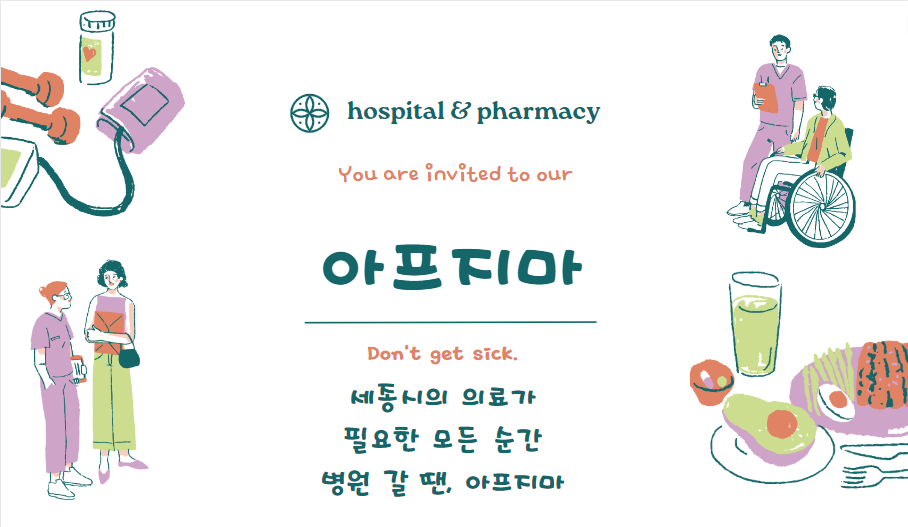
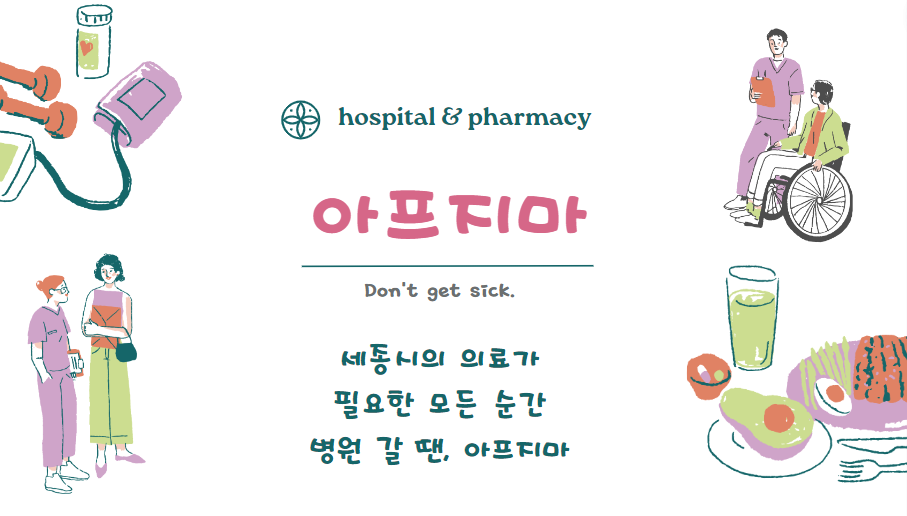
메인 사이드 바에 로고로 바꿈

diff --git a/src/WelcomePage.js b/src/WelcomePage.js
@@ -13,6 +13,8 @@ import {
   faHospital,
   faUser,
 } from "@fortawesome/free-regular-svg-icons";
+import logo from "./assets/images/로고1.png";
+import Snowfall from "react-snowfall";
 
 const images = [
   {
@@ -64,9 +66,19 @@ export function WelcomePage() {
   }
 
   return (
-    <div className="bg-blue-100 bg-opacity-40">
-      <Box className="max-w-screen-xl mx-auto ">
-        <AspectRatio ratio={20 / 6} position="relative">
+    <div className="bg-indigo-950">
+      <Snowfall
+        style={{
+          position: "fixed",
+          width: "100vw",
+          height: "100vh",
+          zIndex: 10,
+          color: "red",
+        }}
+      />
+
+      <Box className="mx-auto ">
+        <AspectRatio ratio={20 / 4} position="relative">
           <Box>
             {imageList.map((image) => (
               <Image
@@ -84,30 +96,39 @@ export function WelcomePage() {
       </Box>
 
       <body>
-        <div className="flex bg-blue-100 bg-opacity-20 justify-center relative">
+        <div className="flex bg-indigo-950  justify-center relative">
           <div
             className="sticky z-99 flex flex-col justify-center"
             style={{
               marginRight: "100px",
-              marginTop: "100px",
-              color: "#4C87B9",
+              marginTop: "50px",
+              color: "white",
               cursor: "pointer",
             }}
             onClick={() => navigate("/home")}
           >
-            <p>여기 로고 들어갈 수 있나?</p>
             <br />
-            <p className="text-4xl" style={{ marginBottom: "40px" }}>
+            <p
+              className="text-6xl font-dongle font-semibold text-center"
+              style={{ marginBottom: "40px" }}
+            >
               <strong>세종시의</strong> 의료가
             </p>
-            <p className="text-4xl" style={{ marginBottom: "40px" }}>
+            <p
+              className="text-6xl font-dongle font-semibold text-center"
+              style={{ marginBottom: "40px" }}
+            >
               필요한 모든 순간
             </p>
             <p
-              className="text-4xl"
+              className="text-6xl font-dongle font-semibold text-center"
               style={{ fontWeight: "bold", marginBottom: "20px" }}
             >
               병원 갈 땐, 아프지마
+            </p>
+            <br />
+            <p>
+              <Image src={logo} />
             </p>
             <div
               style={{
@@ -116,18 +137,13 @@ export function WelcomePage() {
                 backgroundColor: "white",
                 marginBottom: "200px",
               }}
-            >
-              <p className="flex">
-                아프지마? 로고?
-                <img src="/src/assets/images/QRimage.svg" alt="qr이미지" />
-              </p>
-            </div>
+            ></div>
           </div>
 
-          <div className="max-w-md overflow-y-auto bg-white w-full md:w-1/2">
-            <div className="flex bg-blue-100 pt-5 bg-opacity-20 flex items-center">
+          <div className="max-w-md overflow-y-auto bg-indigo-950 w-full md:w-1/2">
+            <div className="flex  pt-5  flex items-center">
               <div className="flex mx-auto flex-col md:flex-row">
-                <div className="bg-white max-w-md">
+                <div className=" max-w-md">
                   <div className=" flex flex-col">
                     <div className="p-4">
                       {/*<div className="flex rounded-xl bg-gray-100 h-16 items-center text-md mt-10 p-8">*/}
@@ -136,12 +152,13 @@ export function WelcomePage() {
                       {/*    병원 또는 약국명을 검색해 보세요.*/}
                       {/*  </h2>*/}
                       {/*</div>*/}
-                      <div className="flex justify-between h-30 mt-6 ">
+                      <div className="flex justify-between h-30  ">
                         <button
                           className="w-full mx-auto pt-10 flex flex-col items-center"
                           onClick={() => navigate("/home/hospital")}
                         >
                           <FontAwesomeIcon
+                            color="white"
                             icon={faHospital}
                             className="w-14 h-14"
                           />
@@ -157,6 +174,7 @@ export function WelcomePage() {
                           onClick={() => navigate("/home/ds")}
                         >
                           <FontAwesomeIcon
+                            color="white"
                             icon={faPills}
                             className="w-14 h-14"
                           />
@@ -172,6 +190,7 @@ export function WelcomePage() {
                           onClick={() => navigate("/home/drug")}
                         >
                           <FontAwesomeIcon
+                            color="white"
                             icon={faHouseChimneyMedical}
                             className="w-14 h-14"
                           />
@@ -183,12 +202,13 @@ export function WelcomePage() {
                           </h3>
                         </button>
                       </div>
-                      <div className="flex justify-between h-60 mt-6">
+                      <div className="flex justify-between h-40 mt-6">
                         <button
                           className="w-full mx-auto pt-10 flex flex-col items-center"
                           onClick={() => navigate("/home/board")}
                         >
                           <FontAwesomeIcon
+                            color="white"
                             icon={faUser}
                             className="w-14 h-14"
                           />
@@ -204,6 +224,7 @@ export function WelcomePage() {
                           onClick={() => navigate("/home/cs")}
                         >
                           <FontAwesomeIcon
+                            color="white"
                             icon={faEnvelope}
                             className="w-14 h-14"
                           />
@@ -219,6 +240,7 @@ export function WelcomePage() {
                           onClick={() => navigate("/home/member/login")}
                         >
                           <FontAwesomeIcon
+                            color="white"
                             icon={faHeart}
                             className="w-14 h-14"
                           />
@@ -231,7 +253,7 @@ export function WelcomePage() {
                         </button>
                       </div>
                     </div>
-                    <div className="w-full h-8 p-4 bg-green-200 bg-opacity-40 flex items-center justify-center">
+                    <div className="w-full h-8 p-4 bg-yellow-500 flex items-center justify-center">
                       <p className="font-bold text-center">
                         아프지마는 세종시의 메디컬 정보 제공사이트입니다.
                       </p>
@@ -244,7 +266,7 @@ export function WelcomePage() {
                             "rgb(245, 246, 250); color: rgb(130, 136, 150);",
                         }}
                       >
-                        <div className="mb-4">
+                        <div className="mb-4" style={{ color: "white" }}>
                           <b>개인정보 처리방침</b>
                           <br />
                           <p>
